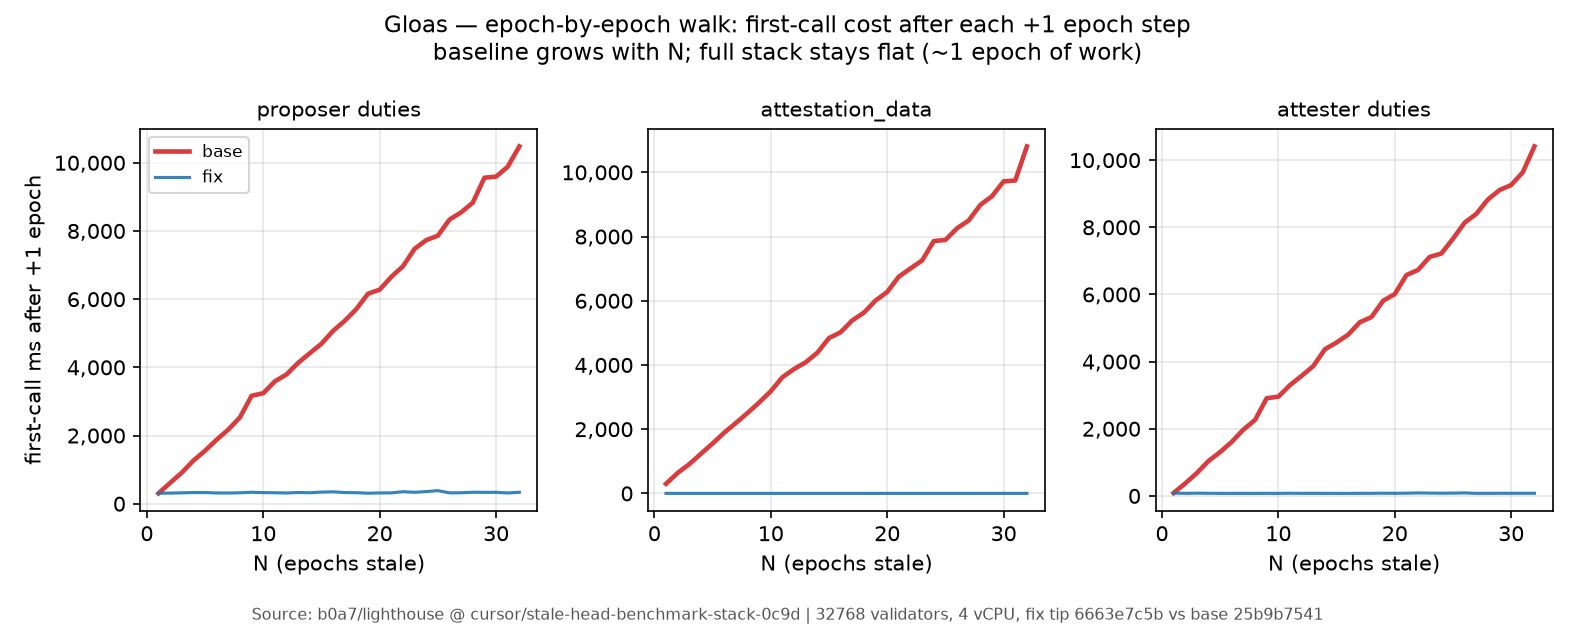
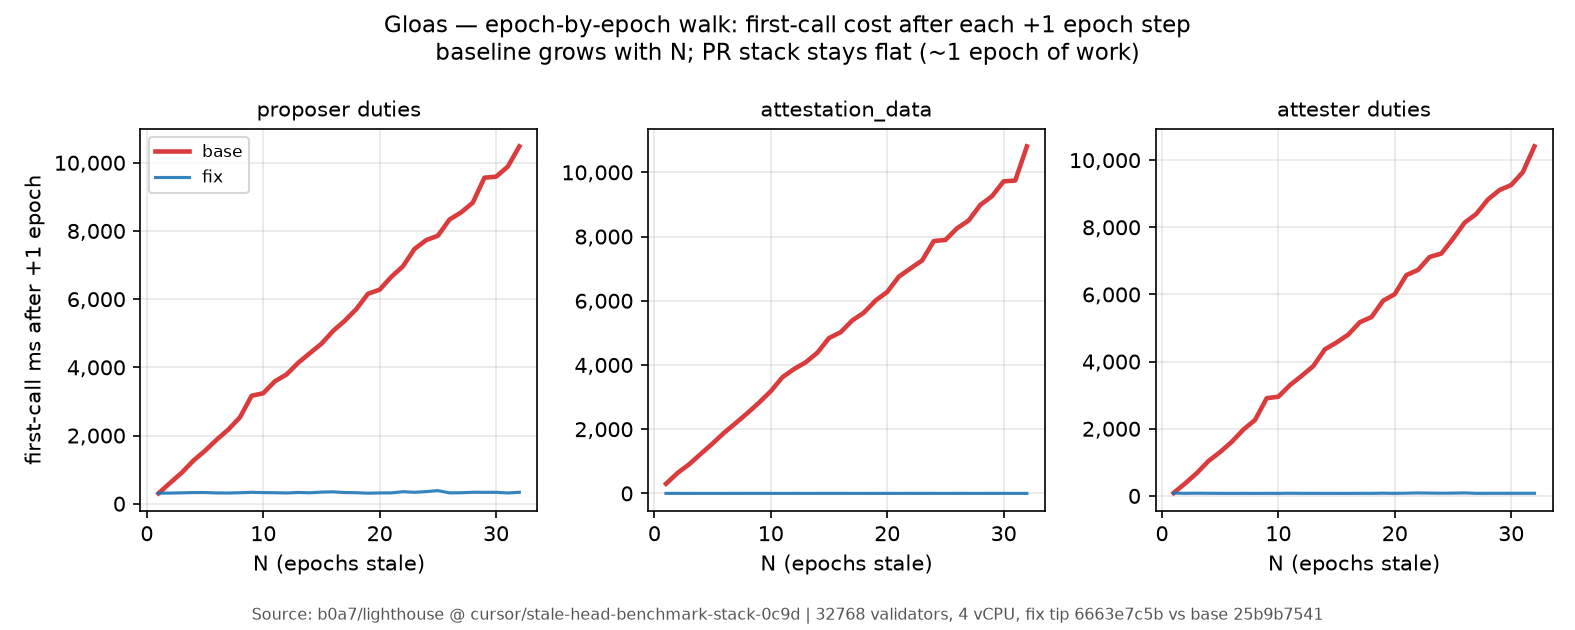
docs: link benchmark 'stack' wording to the PR stack
Replace vague 'full stack' references with the advanced-head-state PR stack
and link https://github.com/b0a7/lighthouse/stack/16.

Changed region(s): [[0.28, 0.0603, 0.7467, 0.1206]]

diff --git a/benchmark-graphs/plot_bench.py b/benchmark-graphs/plot_bench.py
@@ -144,7 +144,7 @@ ax.set_ylabel("ms (log)  ·  first_pe is epoch count")
 ax.legend(fontsize=9)
 ax.axvline(3.5, color="#999", lw=0.8, ls="--")
 fig.suptitle(
-    f"Gloas, N={N}: base vs full stack\n"
+    f"Gloas, N={N}: base vs advanced-head-state PR stack\n"
     "32768 validators — attester first_pe is empty-epoch replay after next-epoch proposer",
     fontsize=11,
 )
@@ -261,8 +261,8 @@ def plot_fix_vs_base(fork: str, endpoints: list[str]):
                 ax.set_xlabel("epochs stale (N)")
     axes[0, 0].legend(fontsize=8, loc="upper left")
     fig.suptitle(
-        f"{fork.capitalize()} — full stack vs baseline (log scale)\n"
-        "wide translucent red = baseline; blue = stack tip 6663e7c5b",
+        f"{fork.capitalize()} — PR stack vs baseline (log scale)\n"
+        "wide translucent red = baseline; blue = stack tip 6663e7c5b (github.com/b0a7/lighthouse/stack/16)",
         fontsize=11,
     )
     fig.tight_layout(rect=(0, 0.04, 1, 1))
@@ -308,7 +308,7 @@ axes[0].set_ylabel("first-call ms after +1 epoch")
 axes[0].legend(fontsize=8)
 fig.suptitle(
     "Gloas — epoch-by-epoch walk: first-call cost after each +1 epoch step\n"
-    "baseline grows with N; full stack stays flat (~1 epoch of work)",
+    "baseline grows with N; PR stack stays flat (~1 epoch of work)",
     fontsize=11,
 )
 fig.tight_layout(rect=(0, 0.05, 1, 1))

diff --git a/BENCHMARK_RESULTS.md b/BENCHMARK_RESULTS.md
@@ -5,17 +5,18 @@ Evidence-only results for [sigp/lighthouse#9530](https://github.com/sigp/lightho
 
 | Branch | Tip | Role |
 |---|---|---|
-| `cursor/stale-head-benchmark-stack-0c9d` | full stack `6663e7c5b` + harness | fix |
+| `cursor/stale-head-benchmark-stack-0c9d` | advanced-head-state [PR stack](https://github.com/b0a7/lighthouse/stack/16) tip `6663e7c5b` + harness | fix |
 | `cursor/stale-head-benchmark-stack-base-0c9d` | `25b9b7541` + harness | baseline |
 
+This compares unstable to the completed [advanced-head-state PR stack](https://github.com/b0a7/lighthouse/stack/16) (layers 1–9 ending at `cursor/stale-head-stack-9-attester-priming-0c9d`).
 32768 validators, 4 vCPU, Fulu + Gloas. Graphs regenerated by `benchmark-graphs/plot_bench.py`.
 
 ## Key takeaways
 
 1. **Without a cache, validator API cost grows linearly with how stale the head is.** On Gloas at N=32, a warm repeat of proposer duties or attestation_data is about **10 s**; 8 concurrent calls take about **40 s** wall-clock.
-2. **With the full stack, those paths stay flat.** The same Gloas N=32 repeats drop to about **1 ms** (proposer) and **0.4 ms** (attestation_data). Concurrent wall stays about **1–2 ms**.
+2. **With the [advanced-head-state PR stack](https://github.com/b0a7/lighthouse/stack/16), those paths stay flat.** The same Gloas N=32 repeats drop to about **1 ms** (proposer) and **0.4 ms** (attestation_data). Concurrent wall stays about **1–2 ms**.
 3. **Attester-after-proposer no longer replays empty epochs.** After a next-epoch proposer advance, current-epoch attester `first_pe` goes from **31 → 0** on both forks (shuffling priming).
-4. **An epoch-by-epoch walk stays ~one epoch of work per step on the fix.** Baseline first-call cost keeps climbing with N; the stack stays flat.
+4. **An epoch-by-epoch walk stays ~one epoch of work per step on the fix.** Baseline first-call cost keeps climbing with N; the [PR stack](https://github.com/b0a7/lighthouse/stack/16) stays flat.
 5. **PTC on jump-to-N is only a partial win.** Cold jump first/repeat still scale with N on the fix; once the cache is warm from an incremental walk, PTC is flat (~160 ms, `first_pe=0` at N=32). Do not read the jump table as a full PTC fix.
 6. **Block production pays a cold complete advance once, then reuses.** First call at N=32 is still seconds; repeats stay ~270 ms with `repeat_pe=0`. `states/{slot}/validators` was already cheap and stays cheap.
 
@@ -23,7 +24,7 @@ Evidence-only results for [sigp/lighthouse#9530](https://github.com/sigp/lightho
 
 ![Gloas N=32 headline](benchmark-graphs/gloas_N32_headline_base_vs_fix.png)
 
-**Gloas, N=32 (worst case), log scale.** Baseline repeat/concurrent cost is tens of seconds. The stack brings proposer and attestation_data down to ~1 ms, and attester empty-epoch replay (`first_pe`) from 31 to 0.
+**Gloas, N=32 (worst case), log scale.** Baseline repeat/concurrent cost is tens of seconds. The [PR stack](https://github.com/b0a7/lighthouse/stack/16) brings proposer and attestation_data down to ~1 ms, and attester empty-epoch replay (`first_pe`) from 31 to 0.
 
 ![Gloas base cost vs staleness](benchmark-graphs/gloas_base_cost_vs_staleness.png)
 
@@ -35,21 +36,21 @@ Evidence-only results for [sigp/lighthouse#9530](https://github.com/sigp/lightho
 
 ![Gloas fix vs base](benchmark-graphs/gloas_fix_vs_base_log.png)
 
-**Gloas, stack vs baseline (log).** Proposer and attestation_data repeats/concurrent stay flat near 1 ms on the stack. Attester *repeat* was already cheap on baseline once duties are cached; the stack win for attester is the first-call / `first_pe` path (see headline). PTC jump still slopes up — called out in takeaway 5.
+**Gloas, [PR stack](https://github.com/b0a7/lighthouse/stack/16) vs baseline (log).** Proposer and attestation_data repeats/concurrent stay flat near 1 ms with the stack applied. Attester *repeat* was already cheap on baseline once duties are cached; the stack win for attester is the first-call / `first_pe` path (see headline). PTC jump still slopes up — called out in takeaway 5.
 
 ![Fulu fix vs base](benchmark-graphs/fulu_fix_vs_base_log.png)
 
-**Fulu, stack vs baseline (log).** Same pattern as Gloas at lower absolute cost.
+**Fulu, [PR stack](https://github.com/b0a7/lighthouse/stack/16) vs baseline (log).** Same pattern as Gloas at lower absolute cost.
 
 ![Gloas incremental walk](benchmark-graphs/gloas_incremental_walk_base_vs_fix.png)
 
-**Gloas epoch-by-epoch walk.** After each +1 epoch clock step, baseline first-call cost grows with N; the stack stays flat at roughly one epoch of work.
+**Gloas epoch-by-epoch walk.** After each +1 epoch clock step, baseline first-call cost grows with N; the [PR stack](https://github.com/b0a7/lighthouse/stack/16) stays flat at roughly one epoch of work.
 
 ## Environment
 
 | Item | Value |
 |---|---|
-| Fix tip | `6663e7c5b` (stack layer 9) |
+| Fix tip | `6663e7c5b` ([PR stack](https://github.com/b0a7/lighthouse/stack/16) layer 9) |
 | Baseline tip | `25b9b7541` |
 | CPU | 4× (`available_parallelism=4`) |
 | Memory | ~15 GiB |

diff --git a/benchmark-graphs/README.md b/benchmark-graphs/README.md
@@ -1,7 +1,9 @@
-# Stale-head full-stack benchmark graphs
+# Stale-head advanced-head-state PR stack benchmark graphs
 
-Generated by `plot_bench.py` from the tables in `../BENCHMARK_RESULTS.md`
-(`cursor/stale-head-benchmark-stack-0c9d`, 32768 validators).
+Generated by `plot_bench.py` from the tables in `../BENCHMARK_RESULTS.md`.
+
+Compares unstable to the [advanced-head-state PR stack](https://github.com/b0a7/lighthouse/stack/16)
+(32768 validators).
 
 ```bash
 python3 benchmark-graphs/plot_bench.py
